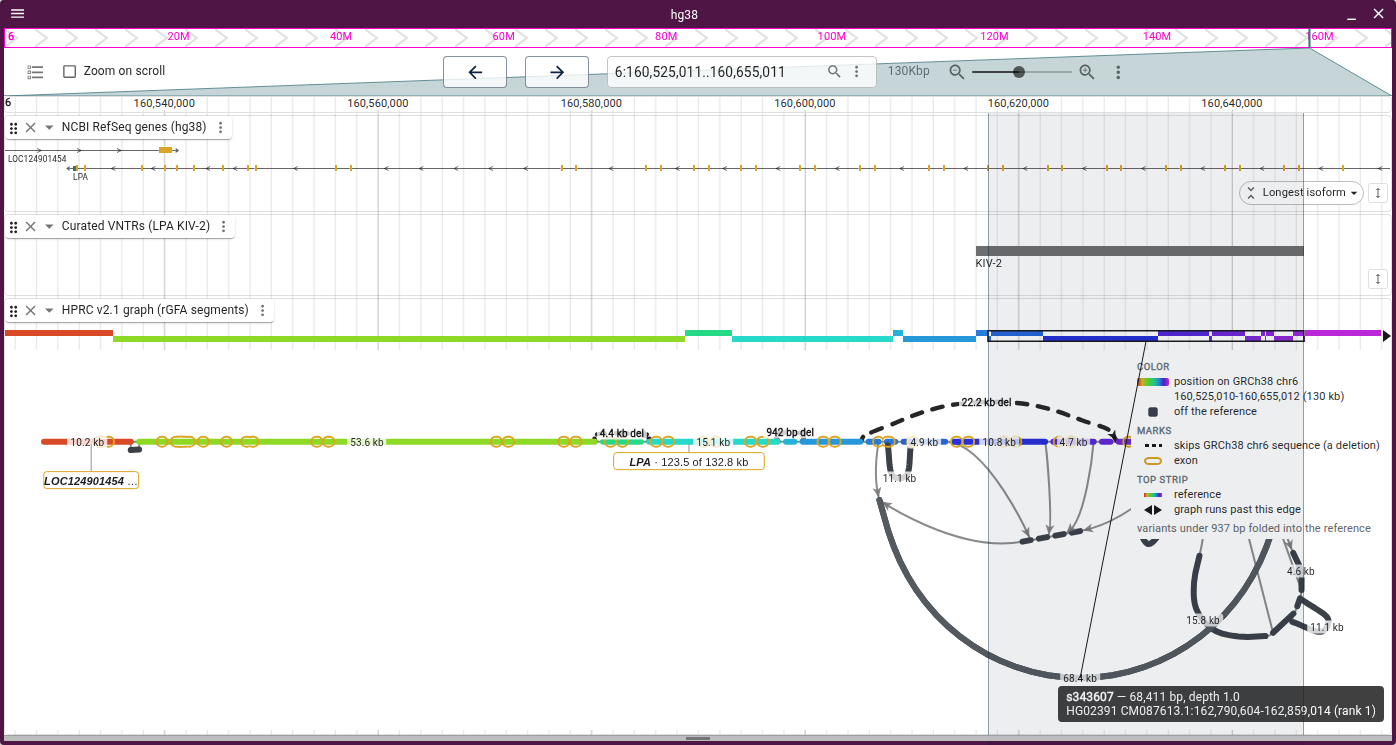
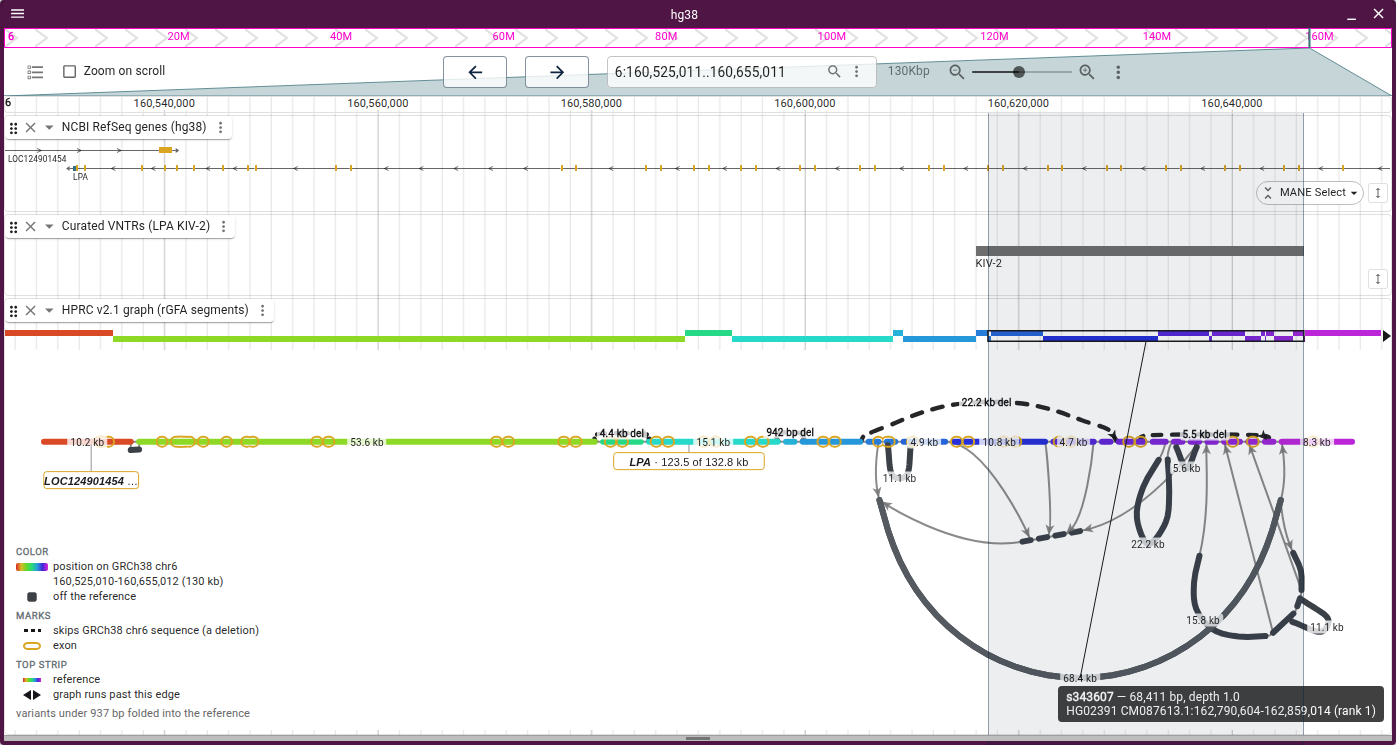
Move the key to the bottom left where the drawing runs under the top right
Take bandage-core 12.7.0's legendCorner. At LPA the KIV-2 loops fill the
track's height and the linear view places x, so no fit could clear the key's
corner; the empty bottom left takes it instead, and the array and its label
show. The scale and the pane's height stay as they were. The screen key, the
SVG export and the tooltip read the same corner. Drawings whose bottom left
holds any node line keep the key top right, as do walk rows and tube maps.

diff --git a/src/GraphGenomeView/pane/fitViews.ts b/src/GraphGenomeView/pane/fitViews.ts
@@ -21,6 +21,7 @@ import {
   walkRowsExtent,
 } from '@jbrowse/bandage-core/layout/walkRowLayout'
 import { layoutModeByValue } from '@jbrowse/bandage-core/layoutModes'
+import { legendCorner } from '@jbrowse/bandage-core/legendCorner'
 import {
   FIT_PADDING,
   drawingBounds,
@@ -300,18 +301,6 @@ export const withFitViews = withHostViews
     get facetGrid() {
       return this.facetGridIn(this.fitRoom - FACET_KEY_PX)
     },
-    // The hover tooltip's distance from the pane's right edge: in the corner,
-    // unless the legend reaches down into its room, and then beside it. A
-    // faceted pane mounts no legend, so its last measured size is stale.
-    get tooltipRightPx() {
-      const { width, height } = self.legendSize
-      const legendBottom = LEGEND_INSET_PX + self.referenceStripZonePx + height
-      return !self.facetPanels &&
-        width > 0 &&
-        legendBottom > this.canvasHeight - TOOLTIP_ROOM_PX
-        ? width + 2 * LEGEND_INSET_PX
-        : TOOLTIP_INSET_PX
-    },
     // The pane is as tall as the drawing, rather than a fixed box the drawing
     // floats in. A row layout's rows are px, so its height is a sum; an
     // isotropic layout has no height of its own and takes its aspect ratio
@@ -396,6 +385,26 @@ export const withFitViews = withHostViews
             padBottom: pads.bottom,
           })
         : undefined
+    },
+  }))
+  .views(self => ({
+    // The corner the key takes: top right, or bottom left where the drawing
+    // runs under the top right and less of it under the bottom left
+    get legendCorner() {
+      return legendCorner(self)
+    },
+    // The hover tooltip's distance from the pane's right edge: in the corner,
+    // unless the legend reaches down into its room, and then beside it. A
+    // faceted pane mounts no legend, so its last measured size is stale.
+    get tooltipRightPx() {
+      const { width, height } = self.legendSize
+      const legendBottom = LEGEND_INSET_PX + self.referenceStripZonePx + height
+      return !self.facetPanels &&
+        width > 0 &&
+        this.legendCorner === 'top-right' &&
+        legendBottom > self.canvasHeight - TOOLTIP_ROOM_PX
+        ? width + 2 * LEGEND_INSET_PX
+        : TOOLTIP_INSET_PX
     },
   }))
   .views(self => ({

diff --git a/src/GraphGenomeView/model.test.ts b/src/GraphGenomeView/model.test.ts
@@ -1698,6 +1698,46 @@ describe('canvas height follows the drawing', () => {
     expect(model.canvasHeight).toBe(canvasHeight)
   })
 
+  test.each([
+    {
+      along: 'the top and right edges',
+      points: [
+        { x: 0, y: 0 },
+        { x: 100, y: 0 },
+        { x: 100, y: 100 },
+      ],
+      corner: 'bottom-left',
+    },
+    {
+      along: 'the left and bottom edges',
+      points: [
+        { x: 0, y: 0 },
+        { x: 0, y: 100 },
+        { x: 100, y: 100 },
+      ],
+      corner: 'top-right',
+    },
+  ])(
+    'a drawing along $along puts the key $corner',
+    async ({ points, corner }) => {
+      mockRpcCall.mockImplementation((_sid: unknown, method: string) =>
+        method === 'GraphComputeLayout'
+          ? Promise.resolve({
+              result: { nodePositions: { '1+': points } },
+              duration: 5,
+            })
+          : Promise.reject(new Error(`Unexpected RPC: ${method}`)),
+      )
+      const model = createModel()
+      await model.loadGFA(SIMPLE_GFA, 'square')
+      model.zoomToFit()
+      // wide enough to reach the square drawing centred in the 800 px pane
+      model.setLegendSize({ width: 300, height: 200 })
+
+      expect(model.legendCorner).toBe(corner)
+    },
+  )
+
   test('the hover tooltip moves beside a legend that reaches its corner', async () => {
     rpcRespond()
     const model = createModel()

diff --git a/src/GraphGenomeView/components/GraphCanvas.tsx b/src/GraphGenomeView/components/GraphCanvas.tsx
@@ -115,14 +115,11 @@ const RowLabels = observer(function RowLabels({
   )
 })
 
-// Top RIGHT: the row labels own the left edge and the hover tooltip owns the
-// bottom right, so this is the one corner nothing else claims. Every key
-// stretches to the widest, so together they read as one panel. It takes the
-// pointer, for its rows' titles and its close button.
+// In the corner model.legendCorner picks. Every key stretches to the widest,
+// so together they read as one panel. It takes the pointer, for its rows'
+// titles and its close button.
 const legendStackStyle = {
   position: 'absolute' as const,
-  top: LEGEND_INSET_PX,
-  right: LEGEND_INSET_PX,
   display: 'flex',
   flexDirection: 'column' as const,
   borderRadius: 3,
@@ -189,9 +186,15 @@ export const Legends = observer(function Legends({
   return (
     <div
       ref={ref}
+      data-legend-corner={model.legendCorner}
       style={{
         ...legendStackStyle,
-        top: LEGEND_INSET_PX + model.referenceStripZonePx,
+        ...(model.legendCorner === 'top-right'
+          ? {
+              top: LEGEND_INSET_PX + model.referenceStripZonePx,
+              right: LEGEND_INSET_PX,
+            }
+          : { bottom: LEGEND_INSET_PX, left: LEGEND_INSET_PX }),
         maxHeight:
           model.canvasHeight - 2 * LEGEND_INSET_PX - model.referenceStripZonePx,
       }}

diff --git a/src/GraphGenomeView/components/PaneSvg.tsx b/src/GraphGenomeView/components/PaneSvg.tsx
@@ -210,9 +210,13 @@ function Keys({
   const boxWidth =
     rows.reduce((max, r) => Math.max(max, r.width), -Infinity) + pad * 2
   const boxHeight = rows.reduce((sum, r) => sum + r.height, 0) + pad
-  const right = model.paneWidth - LEGEND_INSET_PX
-  const left = right - boxWidth + pad
-  const top = LEGEND_INSET_PX + model.referenceStripZonePx
+  const topRight = model.legendCorner === 'top-right'
+  const left = topRight
+    ? model.paneWidth - LEGEND_INSET_PX - boxWidth + pad
+    : LEGEND_INSET_PX + pad
+  const top = topRight
+    ? LEGEND_INSET_PX + model.referenceStripZonePx
+    : model.canvasHeight - LEGEND_INSET_PX - boxHeight
   const placed: { row: KeyRow; y: number }[] = []
   let y = top + pad / 2 + pitch / 2 + 4
   for (const row of rows) {

diff --git a/src/GraphGenomeView/pane/paneBase.ts b/src/GraphGenomeView/pane/paneBase.ts
@@ -347,7 +347,7 @@ export const paneBase = types
     layoutResult: undefined as PaneLayout | undefined,
     // the mode that drew layoutResult: force where the chosen one could not
     drawnLayoutMode: undefined as LayoutModeValue | undefined,
-    // what the legends in the pane's top-right corner measure, so no label
+    // what the legends in the pane's corner measure, so no label
     // is placed under them
     legendSize: { width: 0, height: 0 },
     // The bubble index rows over the cut window, when the source track has
